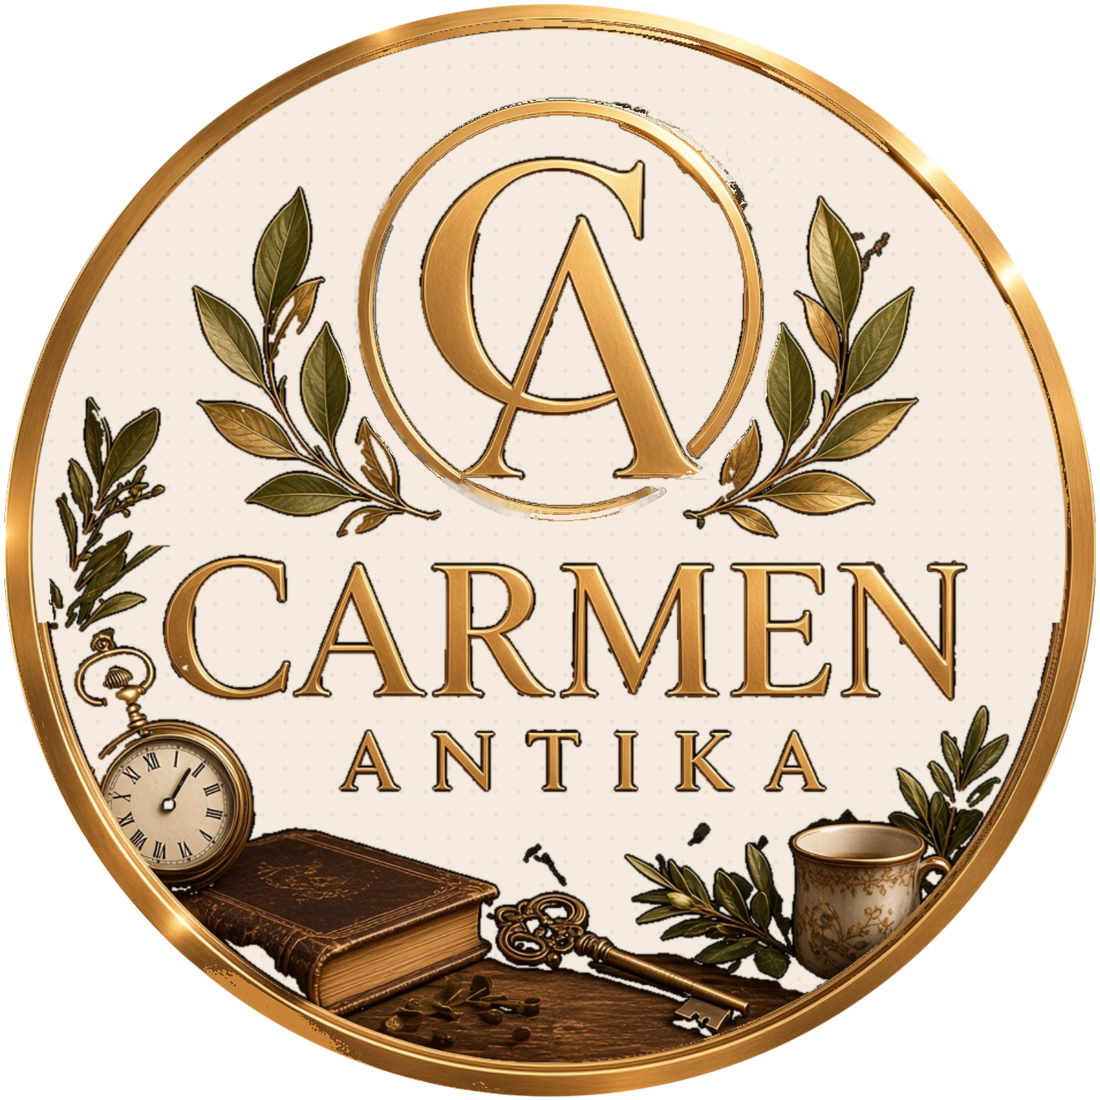
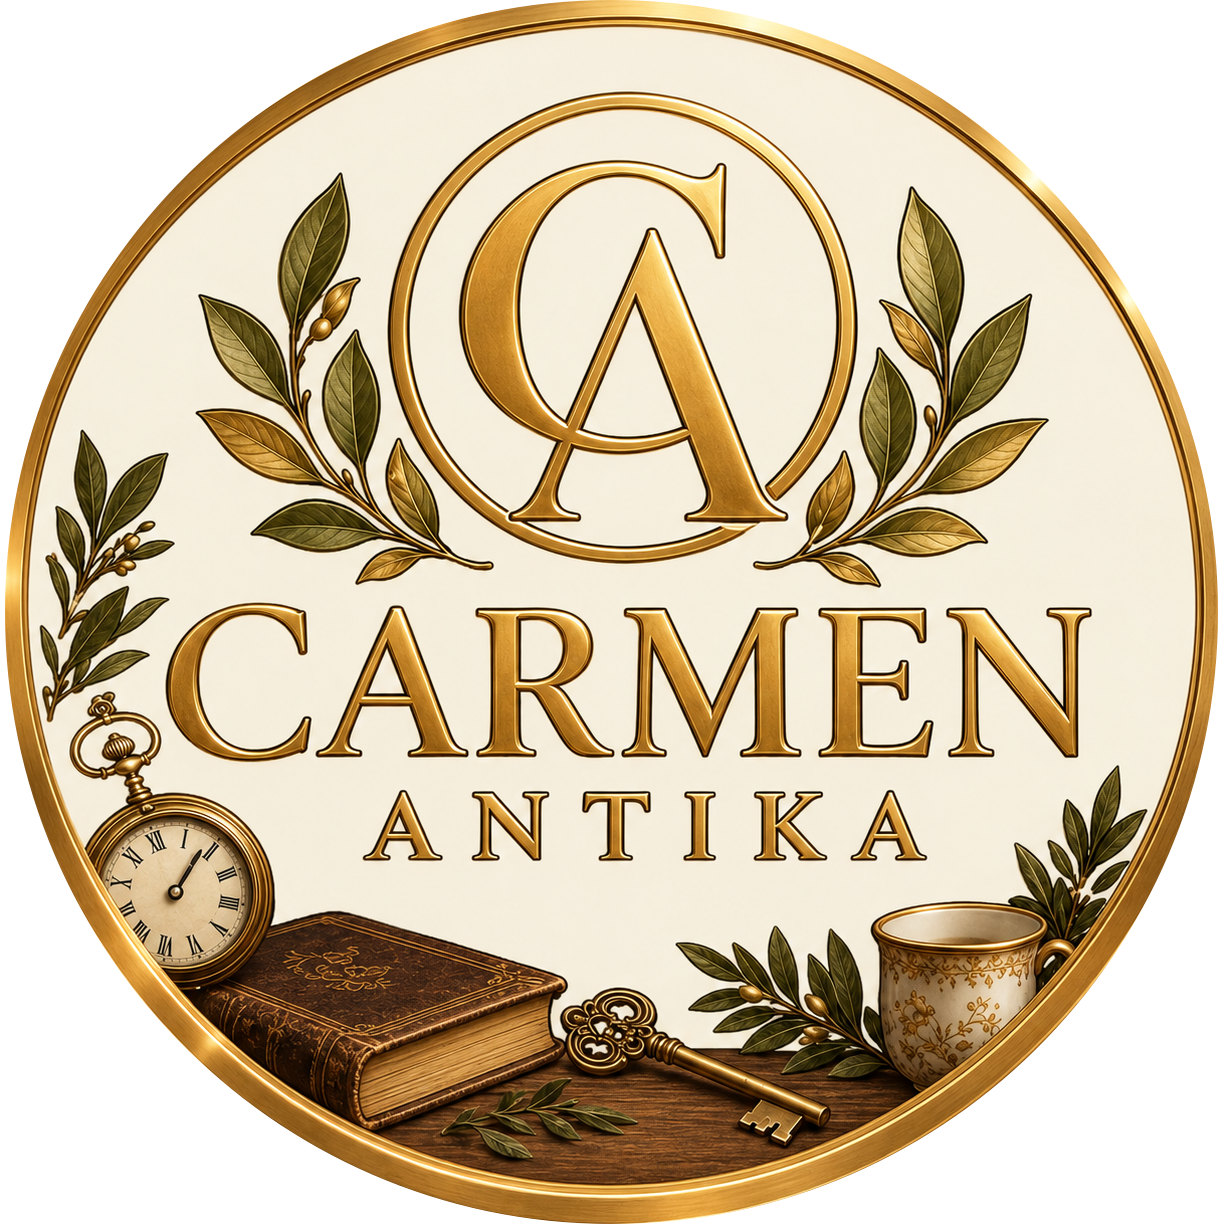
Use the final cleaned Carmen Antika lockup on the homepage.
The home seal is now the owner-corrected mark, with cache-busting so the old file does not stick.

diff --git a/client/src/pages/Home.tsx b/client/src/pages/Home.tsx
@@ -15,7 +15,7 @@ export default function Home() {
         <div className="container-carmen hero-grid">
           <HeroEnter className="hero-copy">
             <motion.div className="hero-brand" variants={heroItem}>
-              <img src="/brand/carmen-lockup.png?v=4" alt="Carmen Antika" width="1100" height="1100" />
+              <img src="/brand/carmen-lockup.png?v=5" alt="Carmen Antika" width="1224" height="1224" />
             </motion.div>
             <motion.h1 className="hero-title serif text-balance" variants={{ hidden: {}, show: { transition: { staggerChildren: 0.1 } } }}>
               <motion.span className="hero-line" variants={heroItem}>Geçmişten gelen,</motion.span>
